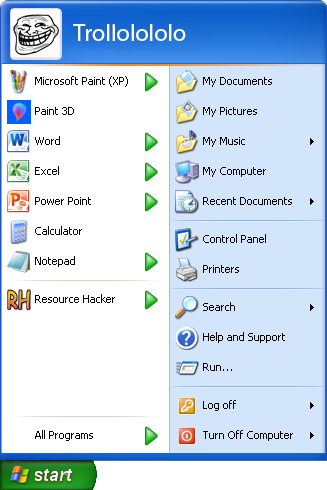
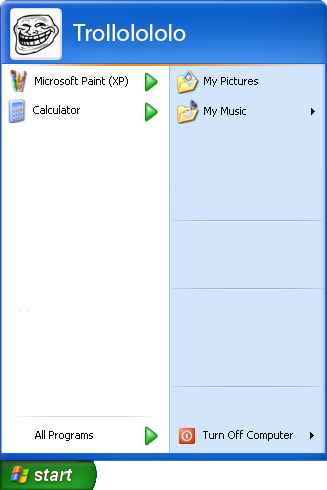
new startmenu

diff --git a/cra-web-desktop/src/index.js b/cra-web-desktop/src/index.js
@@ -17,6 +17,7 @@ import { AppProvider } from './contexts/AppsInUseContext';
 import './Calculator.css';
 import Timer from './apps/Timer';
 import Paint from './apps/Paint';
+import Startmenu from './desktop/Start-menu';
 
 
 
@@ -32,7 +33,7 @@ root.render(
         <DesktopIcon src="https://winaero.com/blog/wp-content/uploads/2017/01/clock-time-icon.png" appName="Timer" appToStart={<Timer/>} />
         <DesktopIcon src="https://cdn2.iconfinder.com/data/icons/icons-mega-pack-1-and-2/256/Windows_Media_Player_10.png" appName="Music" appToStart={<Music videoId={"dQw4w9WgXcQ"}/>}/>
         <DesktopIcon src={paintLogo} appName="Paint" appToStart={<Paint />}/>
-
+        <Startmenu />
       </Desktop>
       <App />
     </Background>

diff --git a/cra-web-desktop/src/desktop/Start-menu.jsx b/cra-web-desktop/src/desktop/Start-menu.jsx
@@ -1,0 +1,12 @@
+import React from "react"
+import startmenu from "../assets/start-menu.png"
+
+export default function Startmenu({ children }) {
+    return (
+      <div className="startmenu">
+        <img src={startmenu}></img>
+  
+        
+      </div>
+    );
+  }

diff --git a/cra-web-desktop/src/App.css b/cra-web-desktop/src/App.css
@@ -2,6 +2,10 @@
     position: absolute;
     bottom: 0;
 }
+.startmenu {
+    position: absolute;
+    bottom: 0;
+}
 
 .clock {
     color: white;
